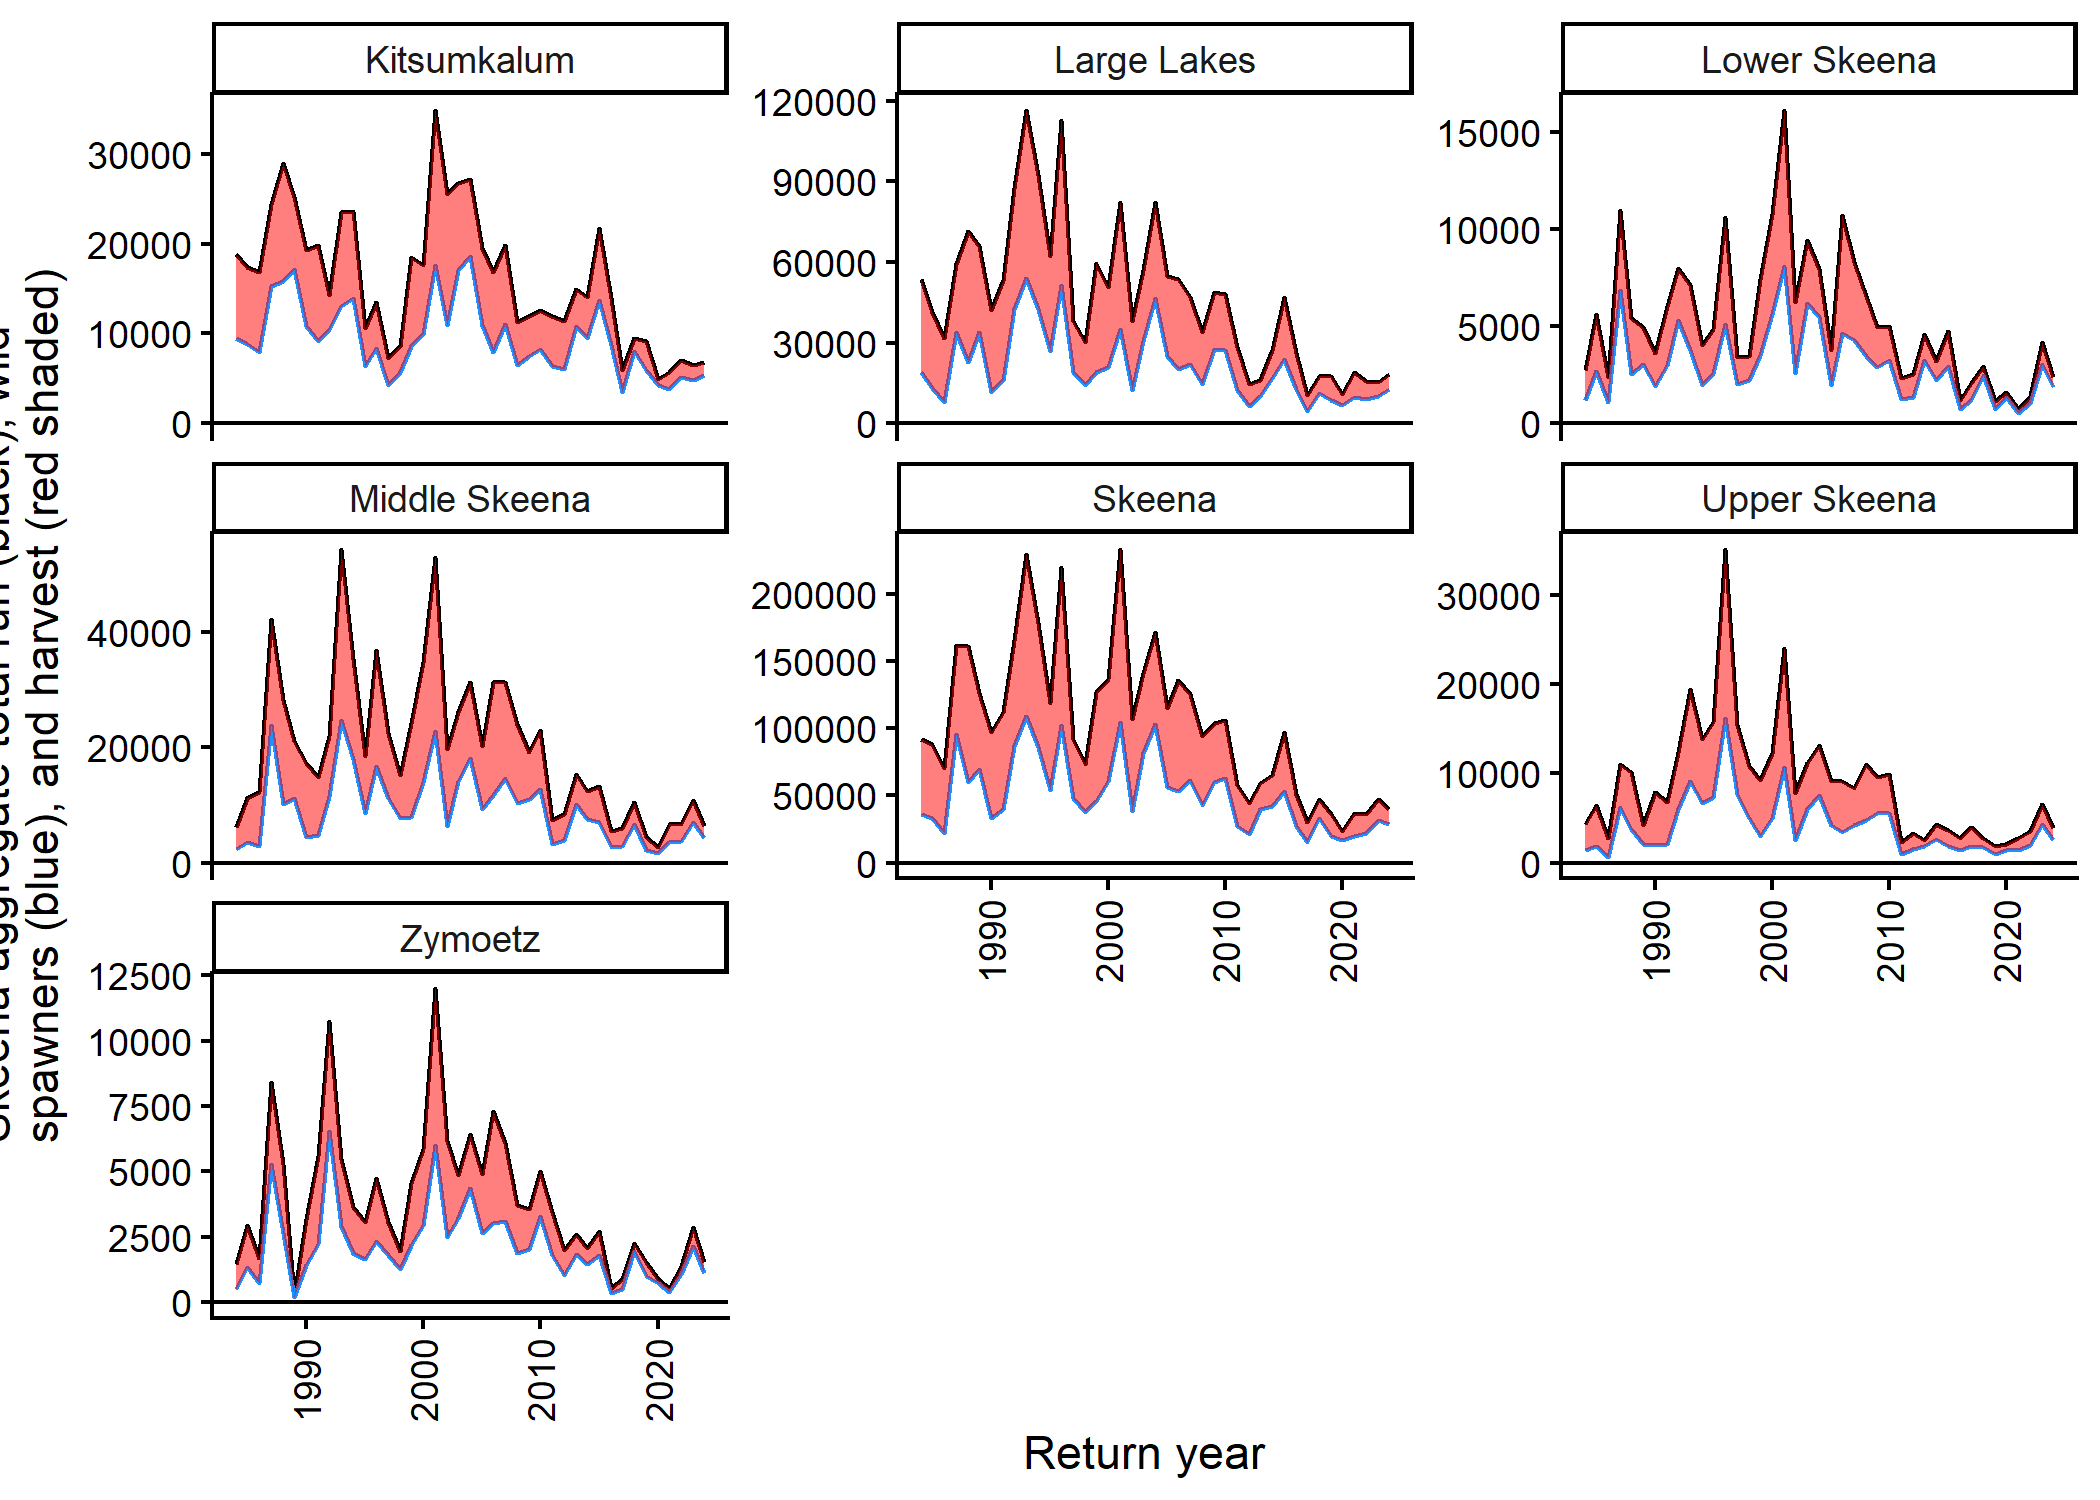
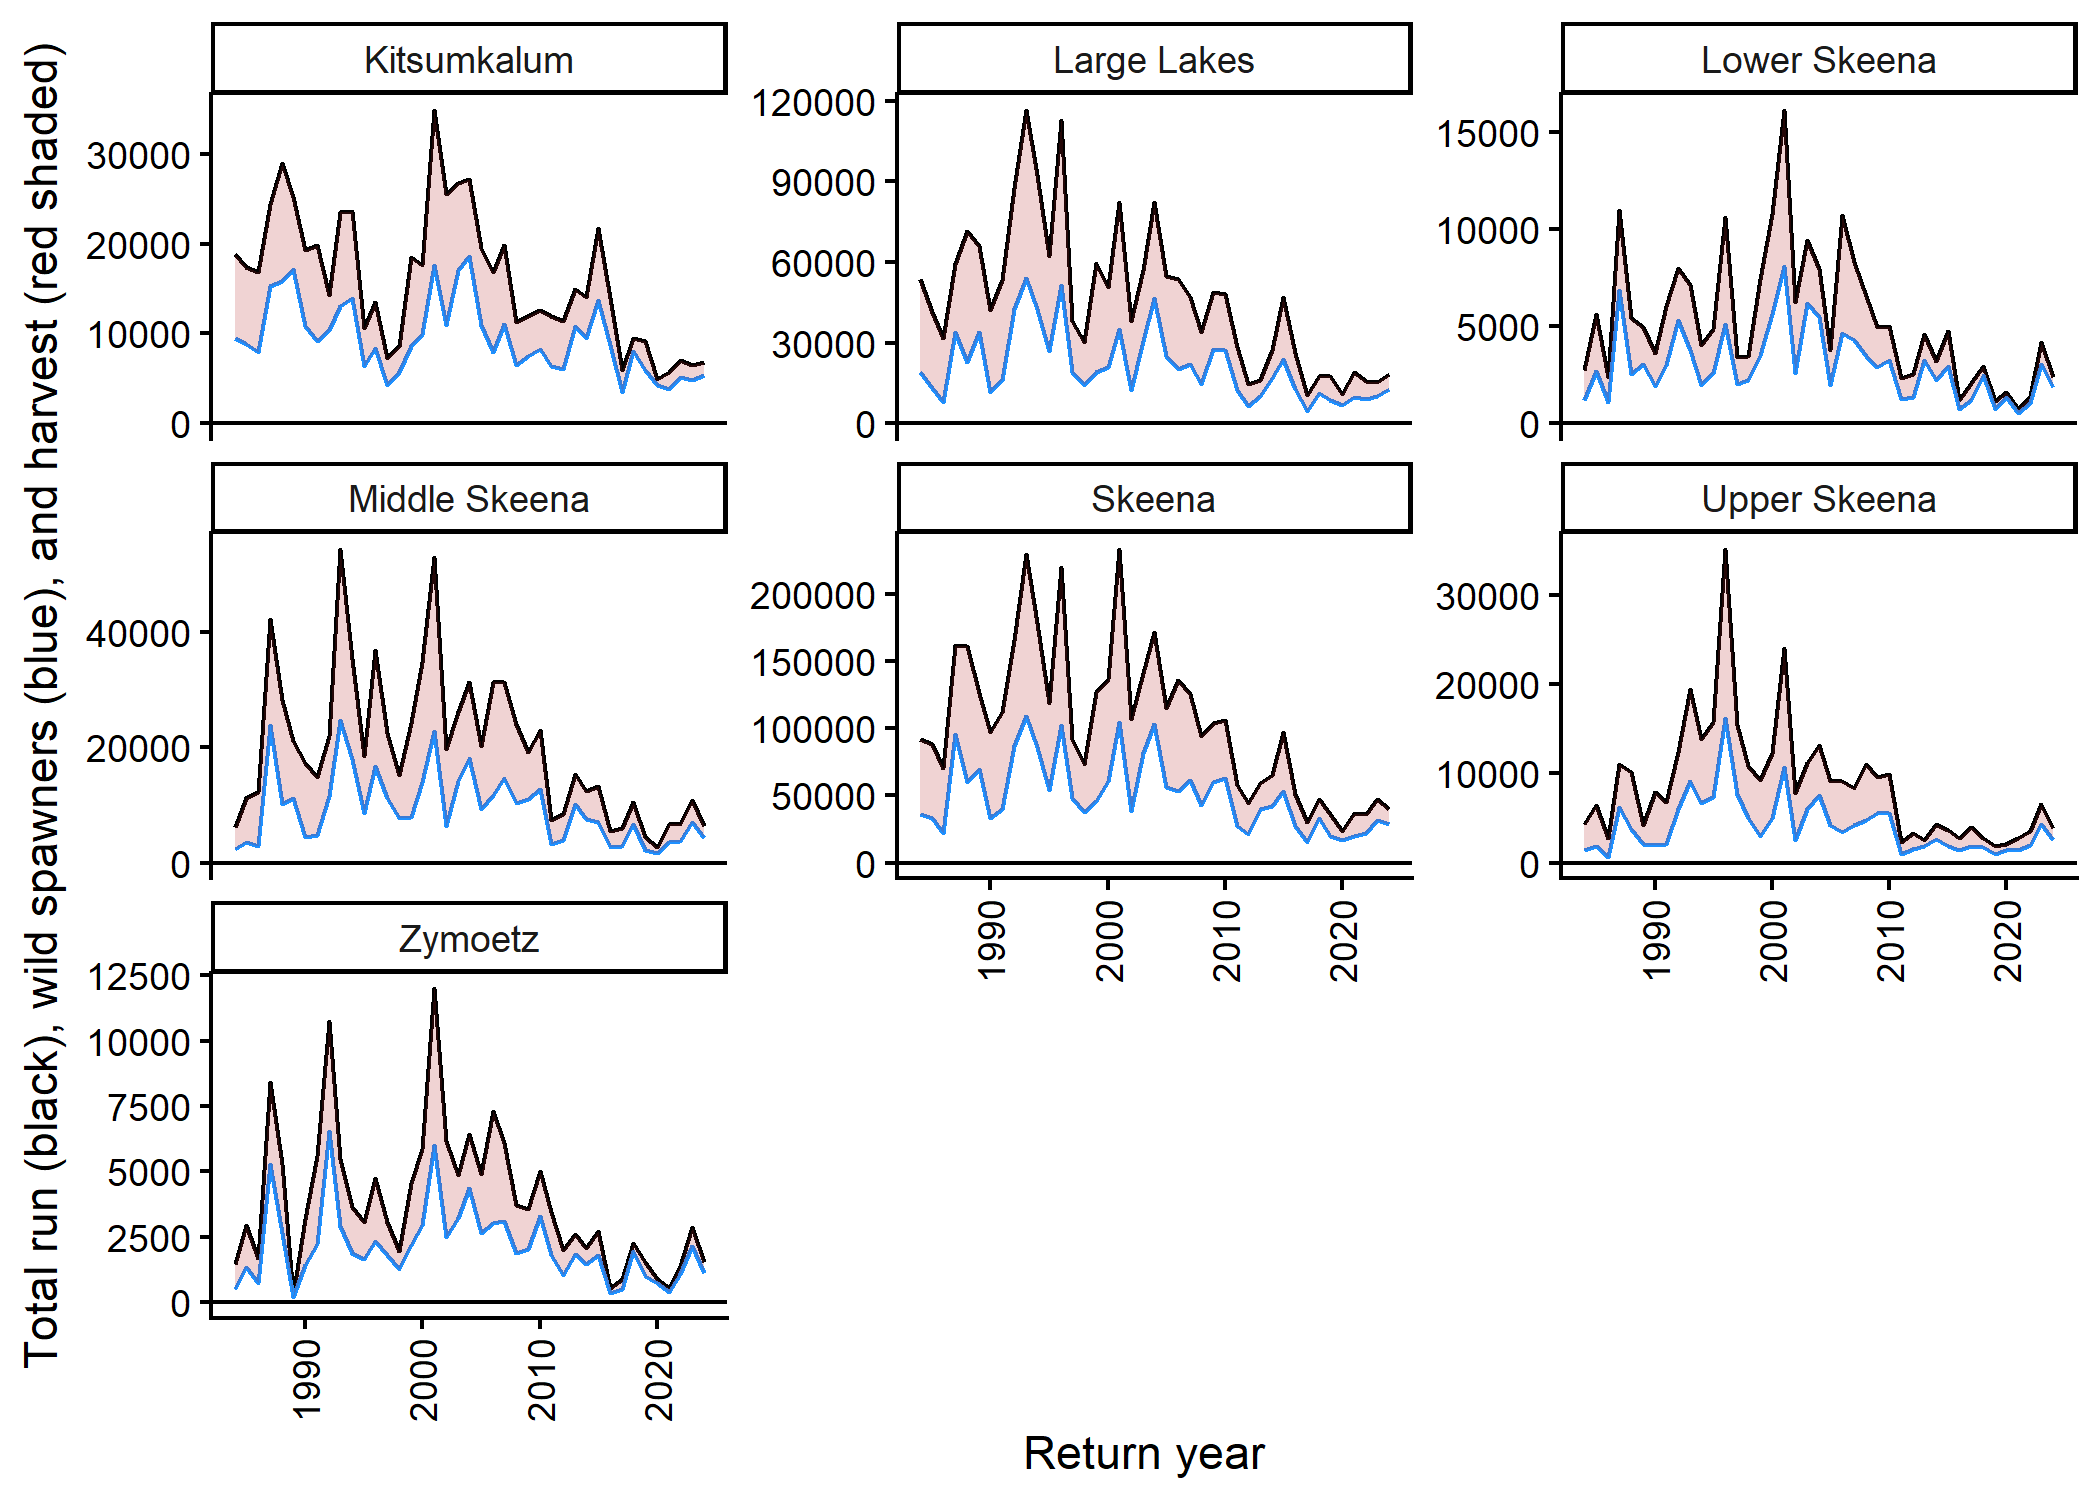
Update rmd fig

diff --git a/Rmd/run-reconstruction-1984-2024.md b/Rmd/run-reconstruction-1984-2024.md
@@ -223,7 +223,7 @@ ggplot(X$df, aes(y = X, x = y, group = i)) +
 
 <img src="man/figures/README-E-1.png" alt="" width="100%" />
 
-Get age proportions by age, population and year (fake data).
+Get age proportions by age, population and year
 
 ``` r
 omega <- omega
@@ -785,8 +785,12 @@ dcsum <- dc %>% filter(!a== 7) %>% group_by(i, y) %>%
   summarize( W = sum(W_star, na.rm=TRUE), 
              harvest = sum(total_harvest_estimate, na.rm=TRUE), 
              N = sum(N, na.rm=TRUE)) 
-#> `summarise()` has grouped output by 'i'. You can override using the `.groups`
-#> argument.
+#> `summarise()` has regrouped the output.
+#> ℹ Summaries were computed grouped by i and y.
+#> ℹ Output is grouped by i.
+#> ℹ Use `summarise(.groups = "drop_last")` to silence this message.
+#> ℹ Use `summarise(.by = c(i, y))` for per-operation grouping
+#>   (`?dplyr::dplyr_by`) instead.
 dcsum1 <- dcsum
 dcsum1$est_hr <- dcsum1$harvest / dcsum$N
 
@@ -837,17 +841,17 @@ write.csv(run_reconstruction_table, here( "data", "run_reconstruction_table.csv"
 
 ``` r
 ggplot( dcsum, aes(y = N, x = y)) +
-  geom_line() +
+  geom_line( ) +
   geom_hline(aes(yintercept=0)) +
-  ylab(TeX("Skeena aggregate total run (black), wild\nspawners (blue), and harvest (red shaded)")) +
+  ylab(TeX("Total run (black), wild spawners (blue), and harvest (red shaded)")) +
   xlab("Return year") +
   geom_line( aes( y = W) , colour = "dodgerblue") + 
-  geom_ribbon( aes( ymin = W, ymax = N), colour = NULL, fill= "red", alpha = 0.5) +
+  geom_ribbon( aes( ymin = W, ymax = N), colour = NULL, fill= "firebrick", alpha = 0.2) +
   facet_wrap( ~ i, scales = "free_y") +
   theme_classic() +
   theme(axis.text.x = element_text(angle=90, vjust=0.5))
-#> Warning in geom_ribbon(aes(ymin = W, ymax = N), colour = NULL, fill = "red", :
-#> Ignoring empty aesthetic: `colour`.
+#> Warning in geom_ribbon(aes(ymin = W, ymax = N), colour = NULL, fill =
+#> "firebrick", : Ignoring empty aesthetic: `colour`.
 ```
 
 <img src="man/figures/README-return-1.png" alt="" width="100%" />
